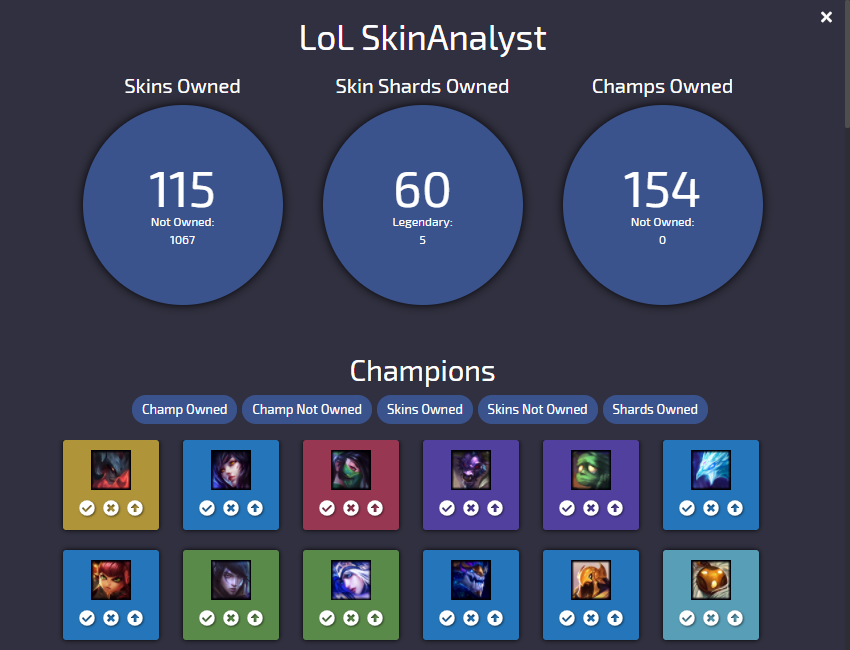
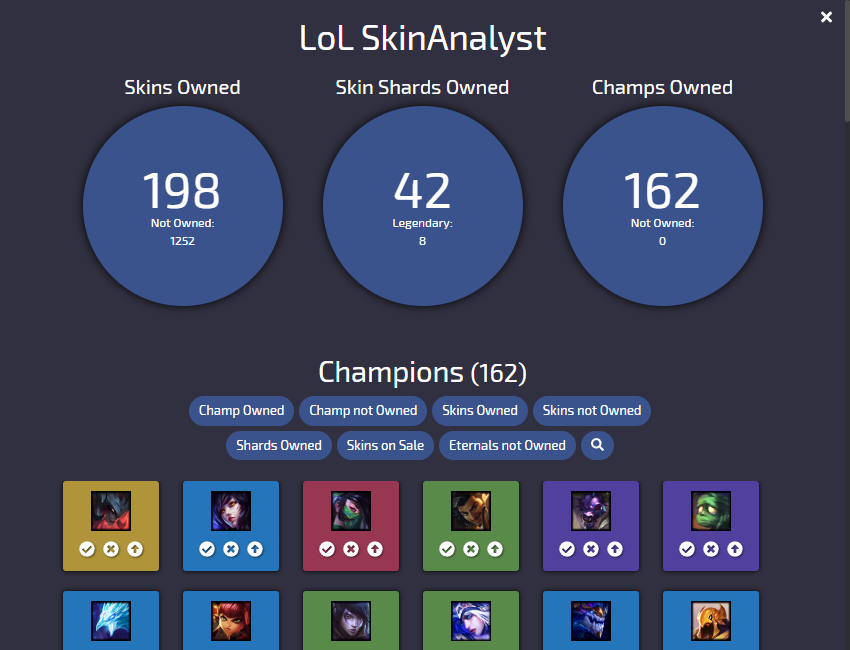
✨ Added eternals filter

diff --git a/src/assets/js/classes/models/ChampionList.js b/src/assets/js/classes/models/ChampionList.js
@@ -3,7 +3,7 @@ const Champion = require('./Champion.js')
 module.exports = class ChampionList {
     champions = [];
 
-    constructor(championsData, imageData, storeCatalog) {
+    constructor(championsData, imageData, storeCatalog, statStones) {
         championsData.forEach((championData, key) => {
             if (championData.id > 0) {
                 const storeItems = []
@@ -15,7 +15,8 @@ module.exports = class ChampionList {
                         storeItems.push(storeItem)
                     }
                 })
-                this.champions.push(new Champion(championData, imageData[key], storeItems))
+                const statStone = statStones.find(e => e.championId === championData.id)
+                this.champions.push(new Champion(championData, imageData[key], storeItems, statStone))
             }
         })
     }

diff --git a/src/assets/js/main.js b/src/assets/js/main.js
@@ -18,9 +18,10 @@ cmdClient.getLCUPortAndPassword(async function (port, password) {
     let championsData = await lcuClient.getChampions(summonerId)
     let lootData = await lcuClient.getLoot()
     let storeCatalog = await lcuClient.getStoreCatalog()
+    let statStones = await lcuClient.getStatstones()
     let imageData = await lcuClient.fetchChampionImages(championsData)
 
-    let championList = new ChampionList(championsData, imageData, storeCatalog).sortList()
+    let championList = new ChampionList(championsData, imageData, storeCatalog, statStones).sortList()
     let lootList = new LootList(lootData).getList()
     let counter = new CountUtility(championList.getList(), lootList)
     let domUtility = new DOMUtility(championList.getList(), counter, lcuClient);

diff --git a/src/assets/js/classes/models/Champion.js b/src/assets/js/classes/models/Champion.js
@@ -13,11 +13,13 @@ module.exports = class Champion {
     role;
     skins;
     skinShards;
+    storeItems;
+    statStone;
 
     element;
     domUtility;
 
-    constructor(championData, imageData, storeItems) {
+    constructor(championData, imageData, storeItems, statStone) {
         this.id = championData.id
         this.name = championData.name
         this.img = championData.squarePortraitPath
@@ -27,6 +29,7 @@ module.exports = class Champion {
         this.title = championData.title
         this.role = championData.roles[0]
         this.storeItems = storeItems
+        this.statStone = statStone
 
         this.skins = []
         this.initSkinData(championData.skins)

diff --git a/src/index.html b/src/index.html
@@ -86,6 +86,7 @@
                         <span id="filter_skins_unowned">Skins not Owned</span>
                         <span id="filter_shards">Shards Owned</span>
                         <span id="filter_sale">Skins on Sale</span>
+                        <span id="filter_eternals_unowned">Eternals not Owned</span>
                         <span id="search">
                             <i class="fas fa-search"></i>
                             <input type="text" class="form-control" id="search_box">

diff --git a/src/assets/js/classes/utilities/FilterUtility.js b/src/assets/js/classes/utilities/FilterUtility.js
@@ -41,6 +41,10 @@ module.exports = class FilterUtility {
         /** Skins on Sale */
         if (champion.storeItems.some(item => item.sale !== null)) groups.push("filter_sale")
 
+        /** Eternals Series 1 not owned */
+        const series1 = champion.statStone.sets.find(e => e.name === 'Series 1')
+        if (series1.stonesOwned !== series1.stonesAvailable) groups.push("filter_eternals_unowned")
+
         return JSON.stringify(groups);
     }
 

diff --git a/src/assets/js/classes/utilities/DOMUtility.js b/src/assets/js/classes/utilities/DOMUtility.js
@@ -21,7 +21,8 @@ module.exports = class DOMUtility {
             "filter_skins_owned": false,
             "filter_skins_unowned": false,
             "filter_shards": false,
-            "filter_sale": false
+            "filter_sale": false,
+            "filter_eternals_unowned": false
         }
         this.initModal()
     }

diff --git a/src/assets/js/classes/clients/ApiClient.js b/src/assets/js/classes/clients/ApiClient.js
@@ -35,6 +35,10 @@ module.exports = class ApiClient {
     getStoreCatalog(){
         return this.call("/lol-store/v1/catalog")
     }
+    
+    getStatstones(){
+        return this.call("/lol-statstones/v2/player-summary-self")
+    }
 
     fetchChampionImages(championData){
         let images = []
